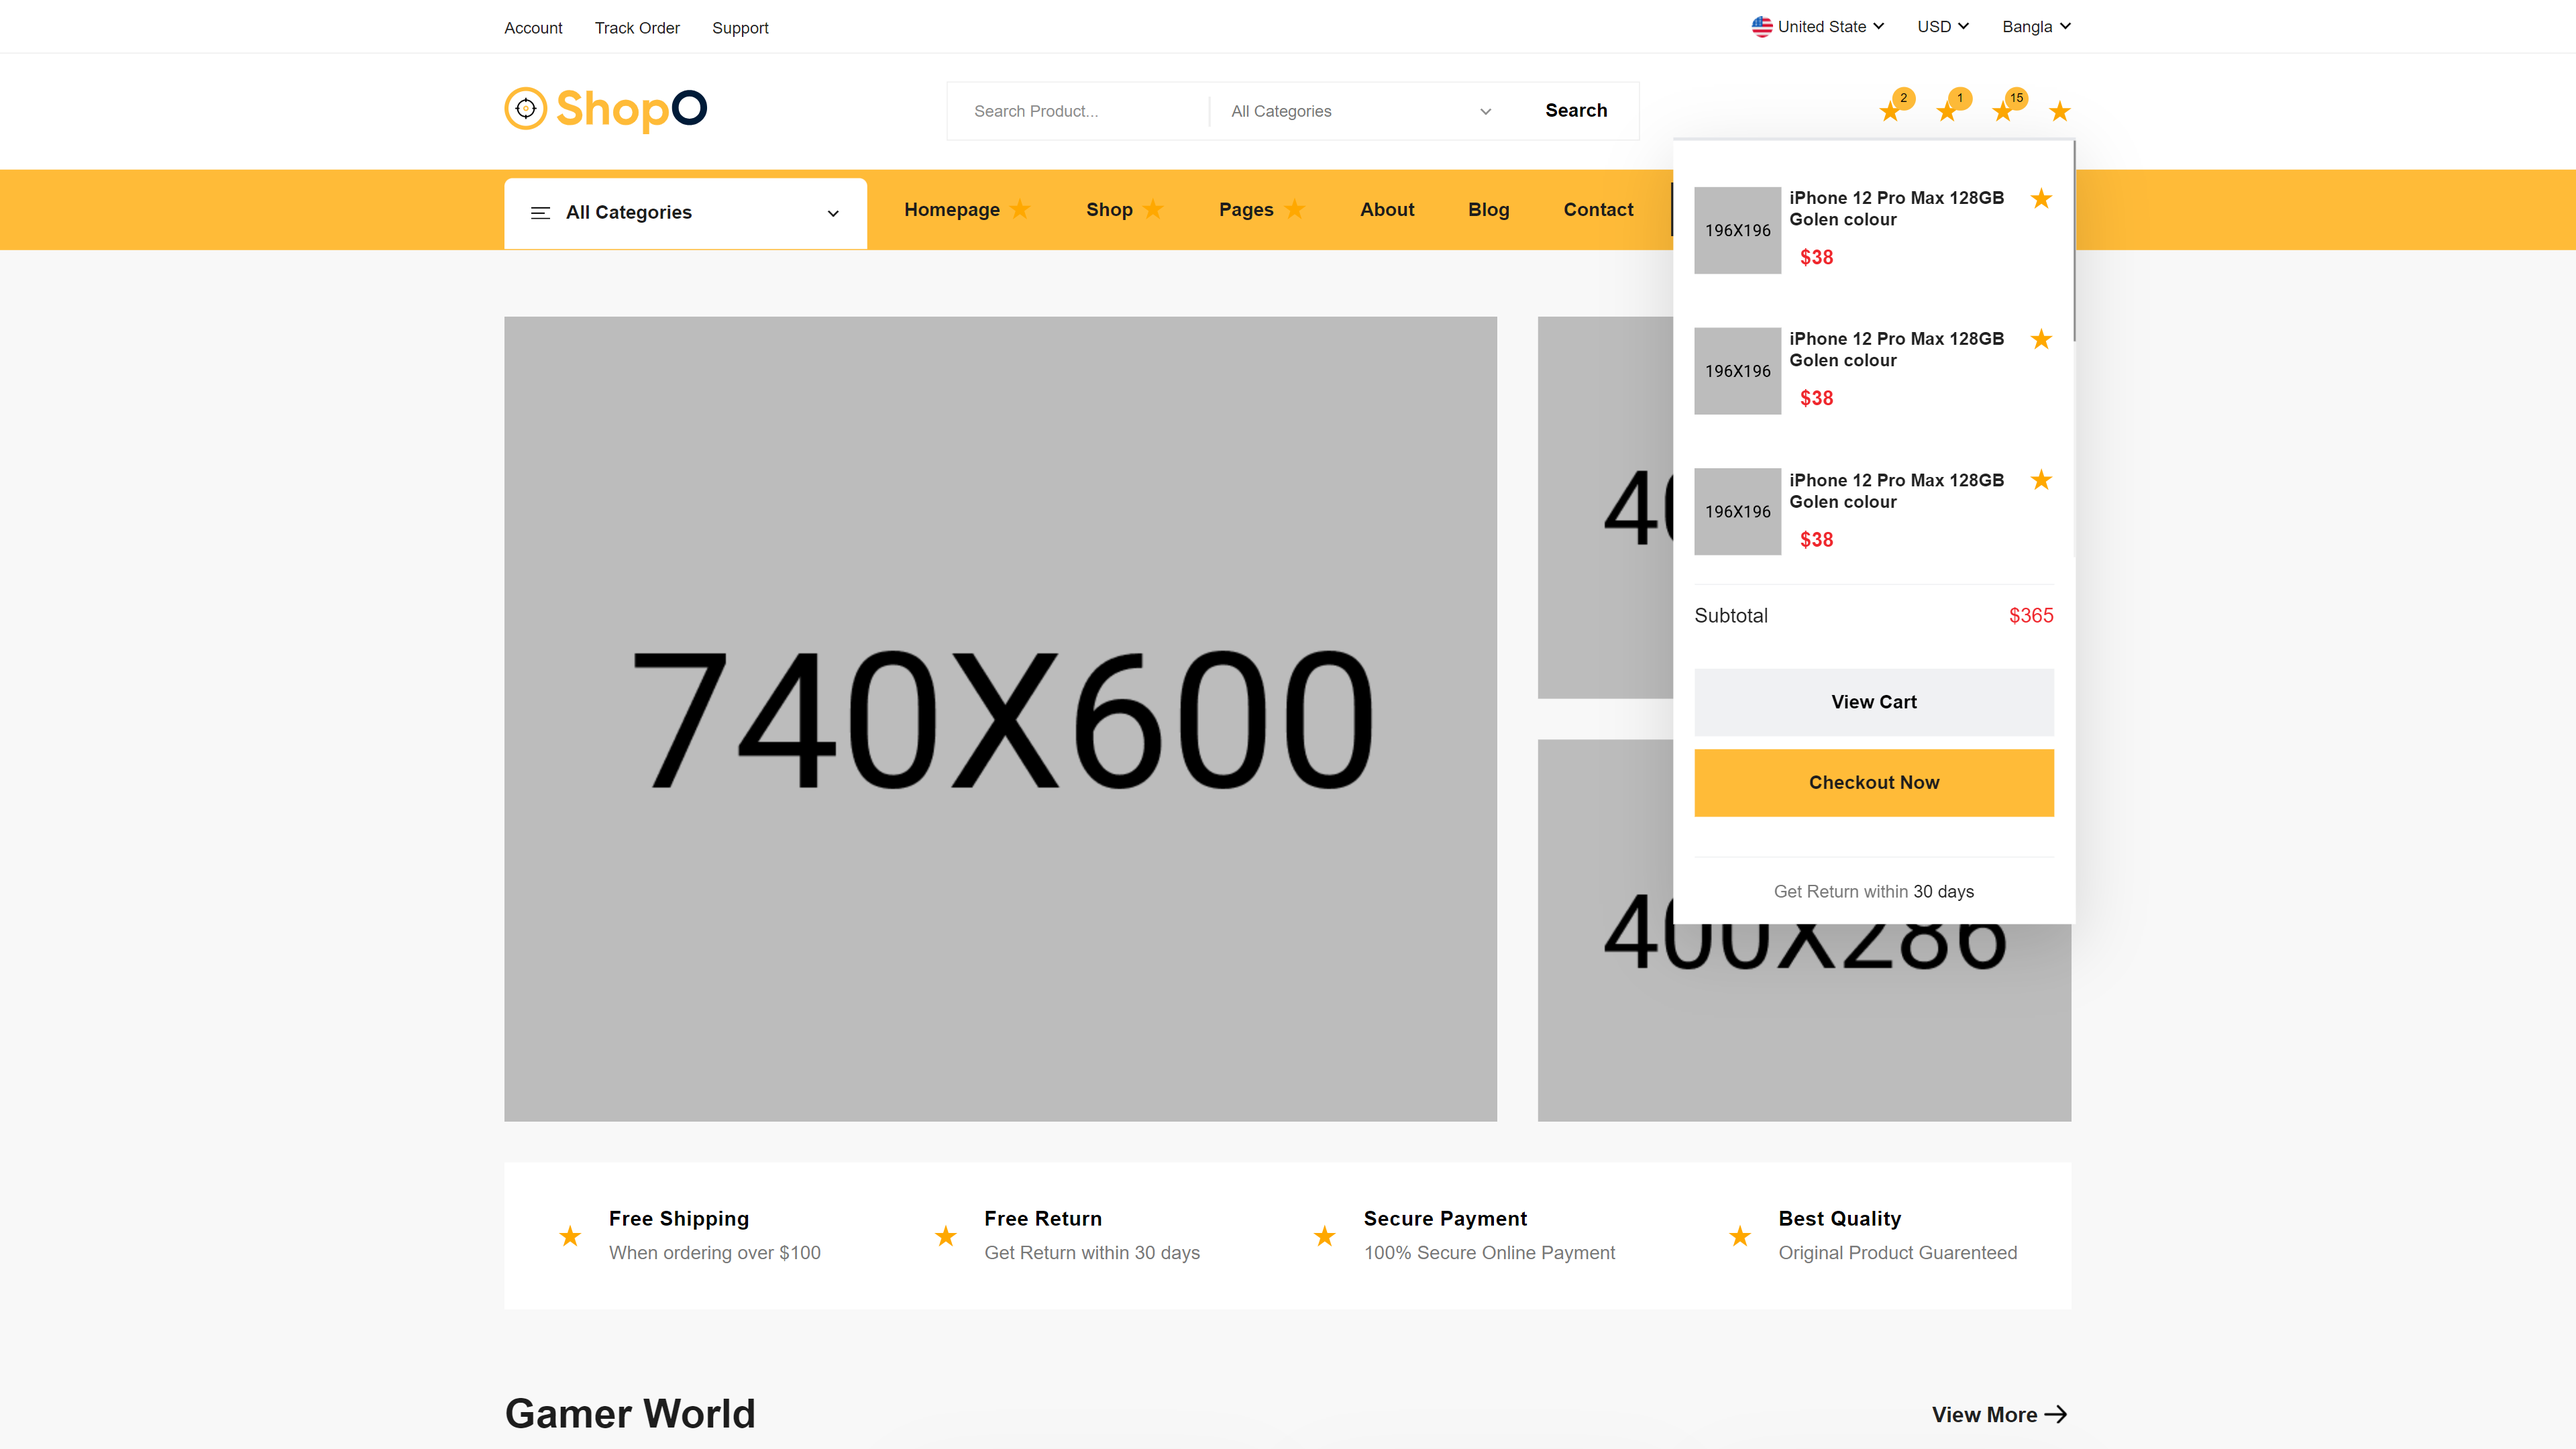
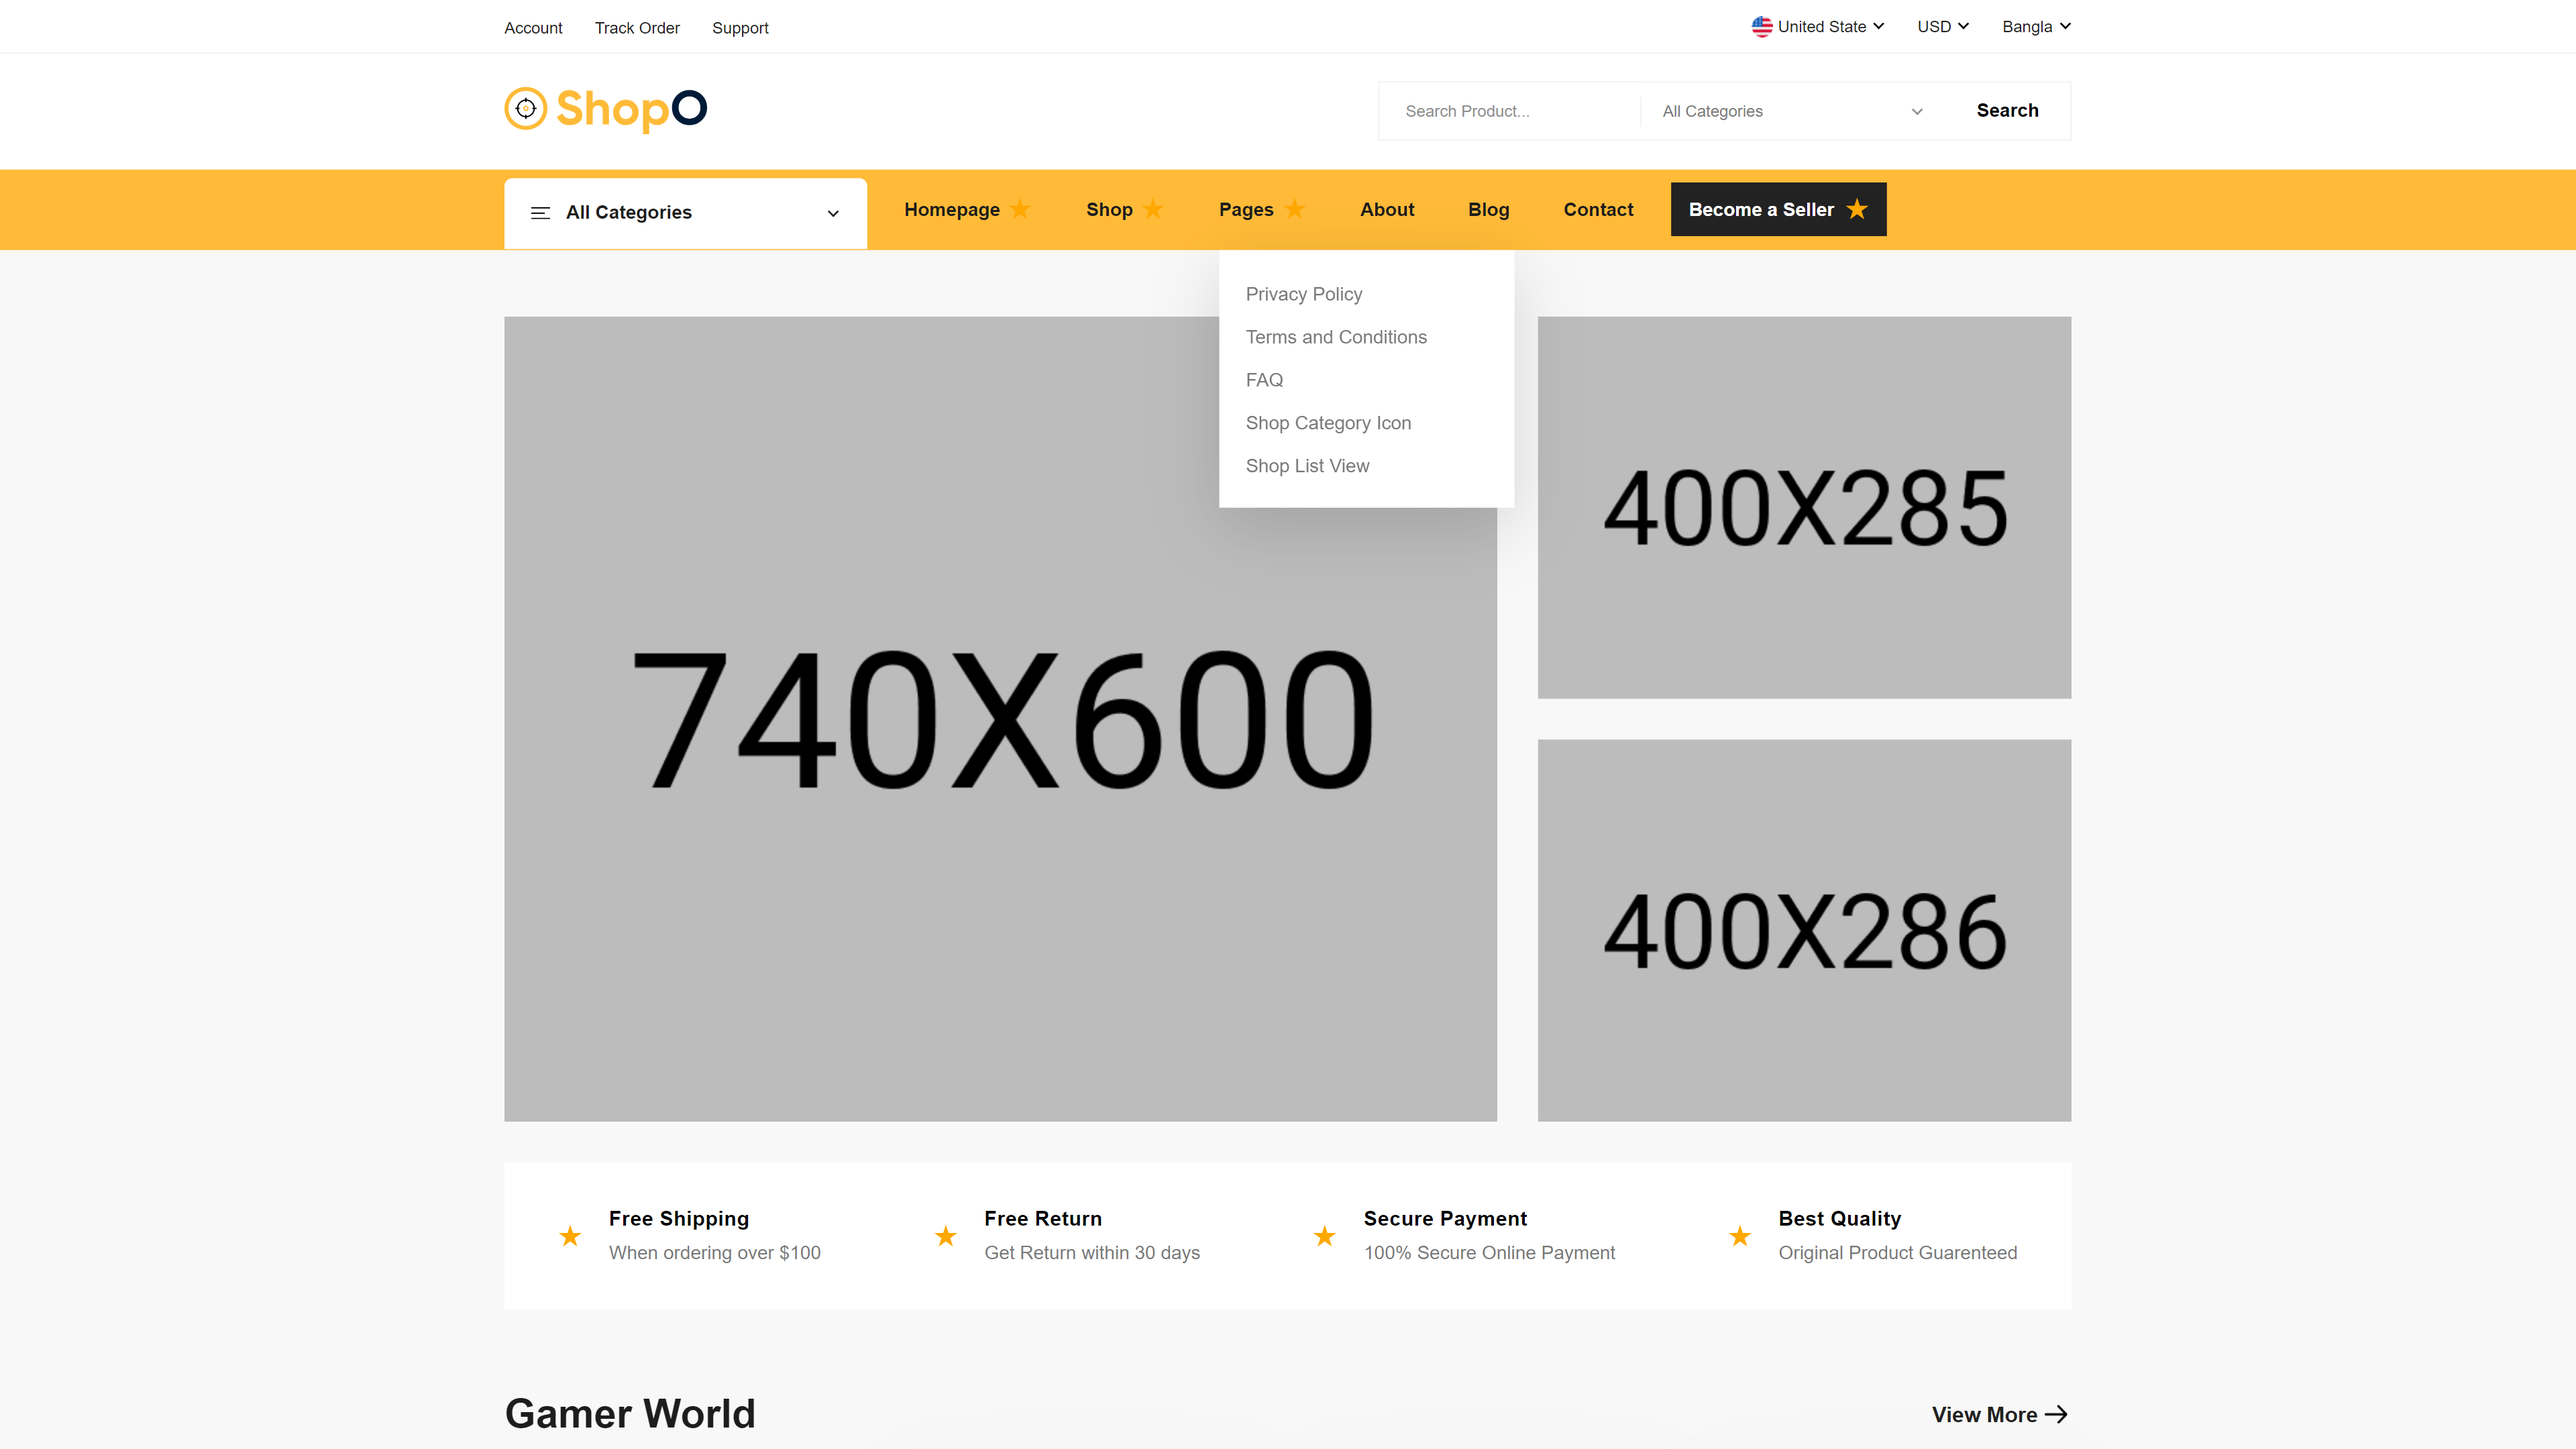
inside middlebar profilebuttons is deleted

diff --git a/src/components/Headers/Middlebar.jsx b/src/components/Headers/Middlebar.jsx
@@ -1,5 +1,3 @@
-import Cart from "../Cart";
-import Star from "../svg/Star";
 import SearchBox from "../SearchBox";
 
 export default function Middlebar({ className, type }) {
@@ -46,65 +44,6 @@ export default function Middlebar({ className, type }) {
             </div>
             <div className="w-[517px] h-[44px]">
               <SearchBox type={type} className="search-com" />
-            </div>
-            <div className="flex space-x-6 items-center">
-              <div className="compaire relative">
-                <a to="/products-compaire">
-                  <span>
-                    <Star />
-                  </span>
-                </a>
-                <span
-                  className={`w-[18px] h-[18px] rounded-full  absolute -top-2.5 -right-2.5 flex justify-center items-center text-[9px] ${
-                    type === 3 ? "bg-qh3-blue text-white" : "bg-qyellow"
-                  }`}
-                >
-                  2
-                </span>
-              </div>
-              <div className="favorite relative">
-                <a to="/wishlist">
-                  <span>
-                    <Star />
-                  </span>
-                </a>
-                <span
-                  className={`w-[18px] h-[18px] rounded-full  absolute -top-2.5 -right-2.5 flex justify-center items-center text-[9px] ${
-                    type === 3 ? "bg-qh3-blue text-white" : "bg-qyellow"
-                  }`}
-                >
-                  1
-                </span>
-              </div>
-              <div className="cart-wrapper group relative py-4">
-                <div className="cart relative cursor-pointer">
-                  <a to="/cart">
-                    <span>
-                      <Star />
-                    </span>
-                  </a>
-                  <span
-                    className={`w-[18px] h-[18px] rounded-full  absolute -top-2.5 -right-2.5 flex justify-center items-center text-[9px] ${
-                      type === 3 ? "bg-qh3-blue text-white" : "bg-qyellow"
-                    }`}
-                  >
-                    15
-                  </span>
-                </div>
-                {/* <div className="fixed left-0 top-0 w-full h-full z-40"></div> */}
-                {/* hidden group-hover:block" */}
-                <Cart
-                  type={type}
-                  className="absolute -right-[45px] top-11 z-50 hidden group-hover:block"
-                />
-              </div>
-              <div>
-                <a to="/profile">
-                  <span>
-                    <Star />
-                  </span>
-                </a>
-              </div>
             </div>
           </div>
         </div>
